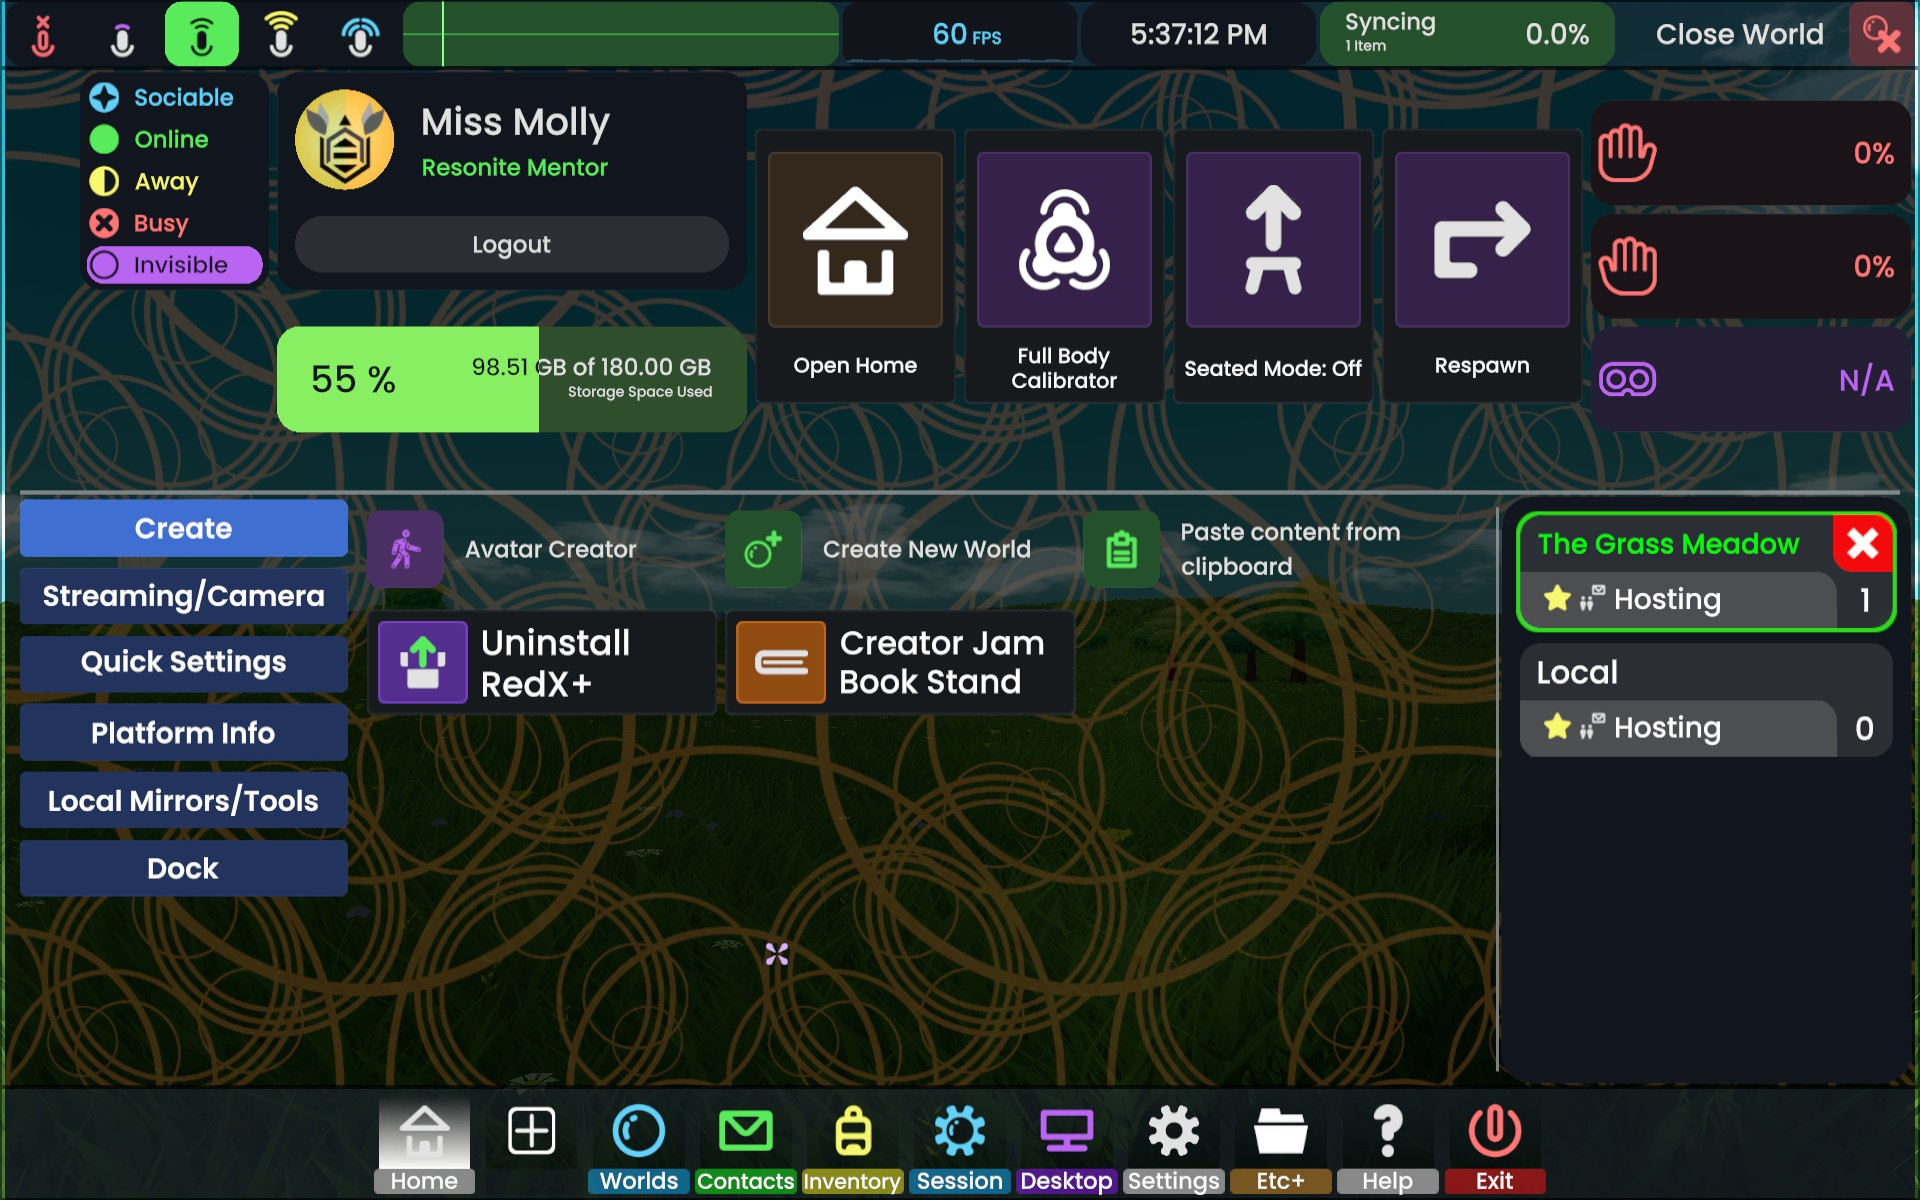
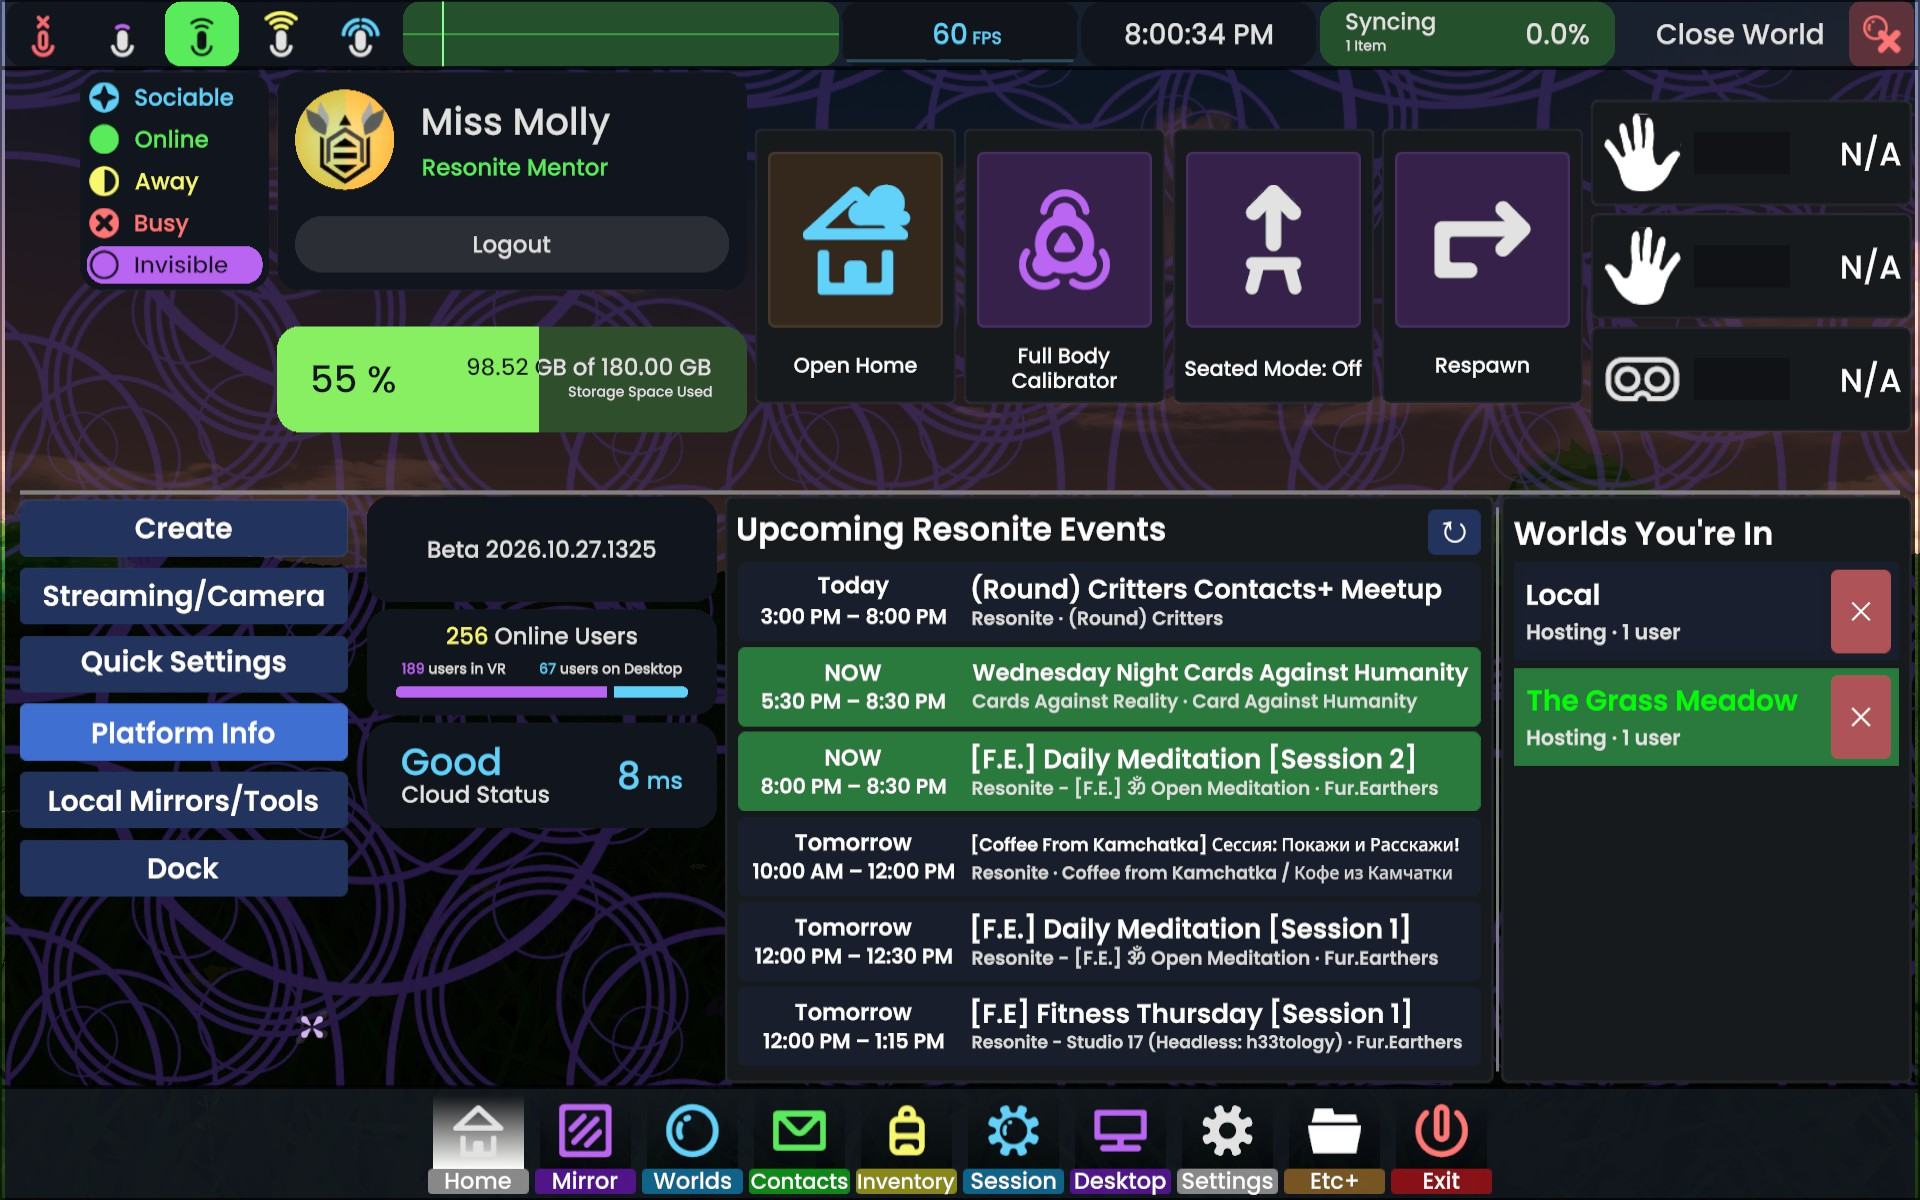
README: new screenshot and up-to-date feature notes

diff --git a/README.md b/README.md
@@ -4,7 +4,7 @@ A [ResoniteModLoader](https://github.com/resonite-modding-group/ResoniteModLoade
 **Home** screen: big everyday facets on top, fold-out tabs of facets below, and a **Dock** tab for rearranging the
 dash's dock into folders.
 
-![The new Home: profile, status and big tiles on top, the tab column, a tab, and Worlds You're In below](docs/home.jpg)
+![The new Home: online status, profile, storage, big tiles and batteries on top; below, the tab column, Platform Info with Resonite Events, and Worlds You're In](docs/home.jpg)
 
 > **Note:** this is a vibe-coded mod. It was made with [Claude Code](https://claude.com/claude-code), Anthropic's AI
 > coding assistant: I described what I wanted and tested every step in-game, and Claude wrote the code.
@@ -23,7 +23,7 @@ Your current Home is kept as a dock tab called **Home (old)**, then the Home is 
 - Online status, your profile (log in / out) and storage
 - Big tiles: Open Home, Full Body Calibrator, Seated Mode, and **Respawn** (warns you to save your work first; press
   twice)
-- Left and right controller and headset batteries
+- Left and right controller and headset batteries (live: a coloured bar, the percentage, and ⚡ while charging)
 
 **Tabs** (the column on the left of the bottom half)
 
@@ -38,14 +38,14 @@ Your current Home is kept as a dock tab called **Home (old)**, then the Home is 
 
 - In UI Edit mode, **New Tab +** adds a blank tab; the box under the list renames or deletes the open tab. The list
   pages when there are more tabs than fit.
-- **Worlds You're In** sits on the right of the bottom half whichever tab is open: press a world to switch to it, ✕
-  (twice) to leave it.
+- **Worlds You're In** sits on the right of the bottom half whichever tab is open. It lists the worlds you have open,
+  who's hosting and how many people are there; press a world to switch to it, ✕ (twice) to leave it.
 - **Dimness** darkens everything you see (0–80 %), like SteamVR's dimming. Only you see it.
 - **Dash Colour** tints the background of every dash screen.
-- **Install Dash Mirror** adds a dock tab that shows you like a mirror (Mirror / Camera, Front / Back — or click the
-  picture — and Near / Normal / Wide), then
-  turns into **Uninstall Dash Mirror** (press twice).
-- **Resonite Events** lists upcoming community events; press one for its description.
+- **Install Dash Mirror** adds a dock tab that shows you like a mirror, then turns into **Uninstall Dash Mirror**
+  (press twice). Its buttons switch Mirror / Camera, Front / Back (or click the picture) and Near / Normal / Wide.
+- **Resonite Events** lists upcoming community events, with the ones happening now in green; press one for its
+  description.
 
 **Local mirror and local light**
 
@@ -65,7 +65,7 @@ In UI Edit mode:
 - **Delete** (press twice) removes a tab or folder you made, or an installed tab; a folder's tabs go back on the
   dock.
 
-Folders, the order and your tabs are saved with the dash and keep working without the mod. Only a full dash reset in
+Folders, the order, colours and your tabs are saved with the dash and kept through restarts; only a full dash reset in
 the game resets them.
 
 **Desktop UI editing**
@@ -93,7 +93,8 @@ Change these in the RML mod settings or in `rml_config/HomeTabOverhaul.json`. Th
 - **No cloud items.** Everything on the Home is built by the mod itself or is the game's own. The only thing it
   fetches is the public events list from `https://resonite-communities.com/v1/events` (at most every 15 minutes, while
   the events list is showing).
-- **Before uninstalling the mod,** turn `enabled` off so Home (old) is your Home again.
+- **Before uninstalling the mod,** turn `enabled` off: Home (old) becomes your Home again and every tab goes back on
+  the dock.
 
 ## If a Resonite update breaks it
 
